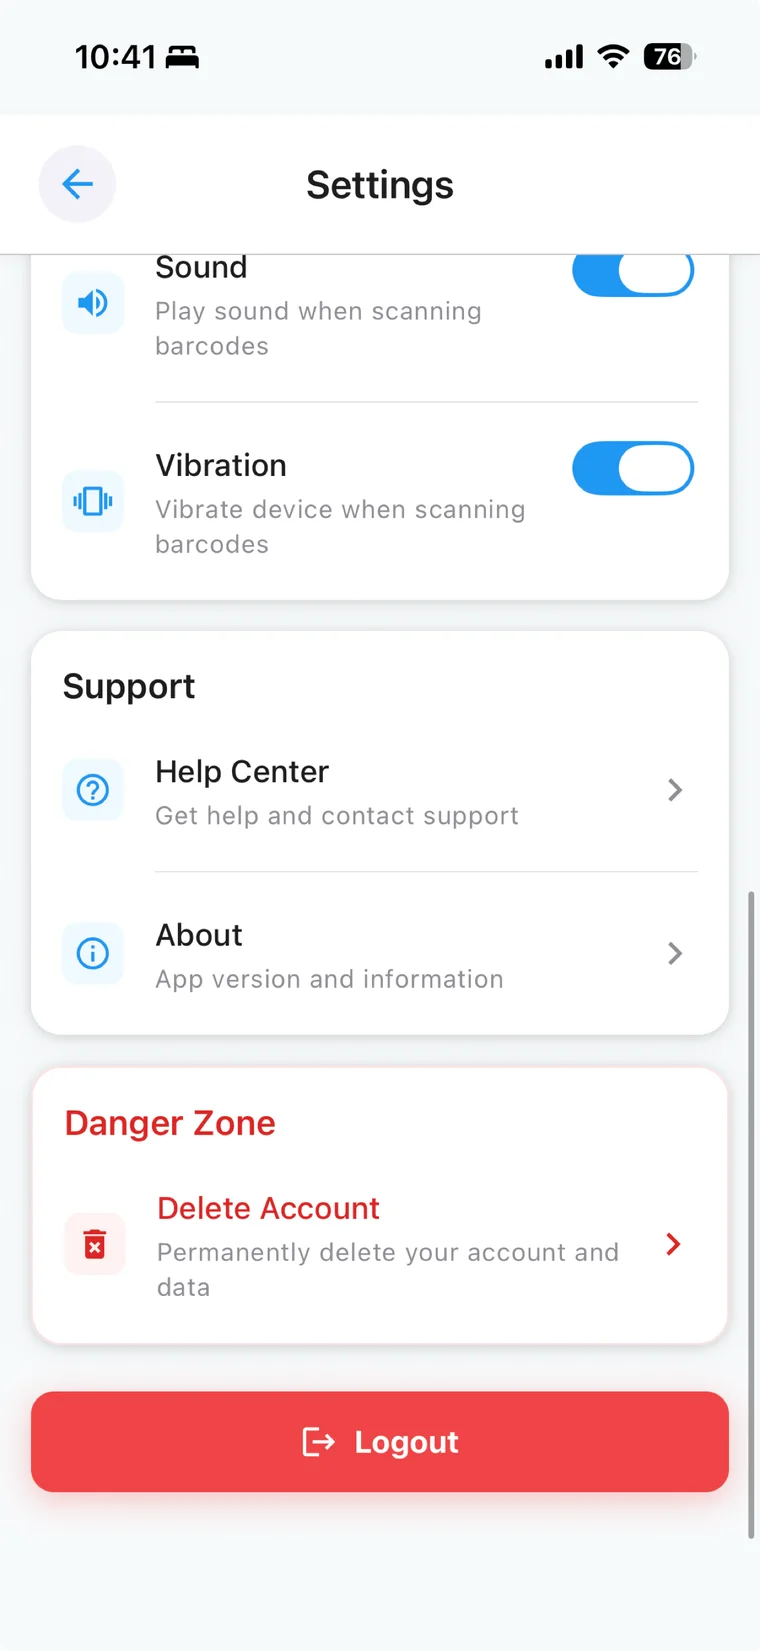
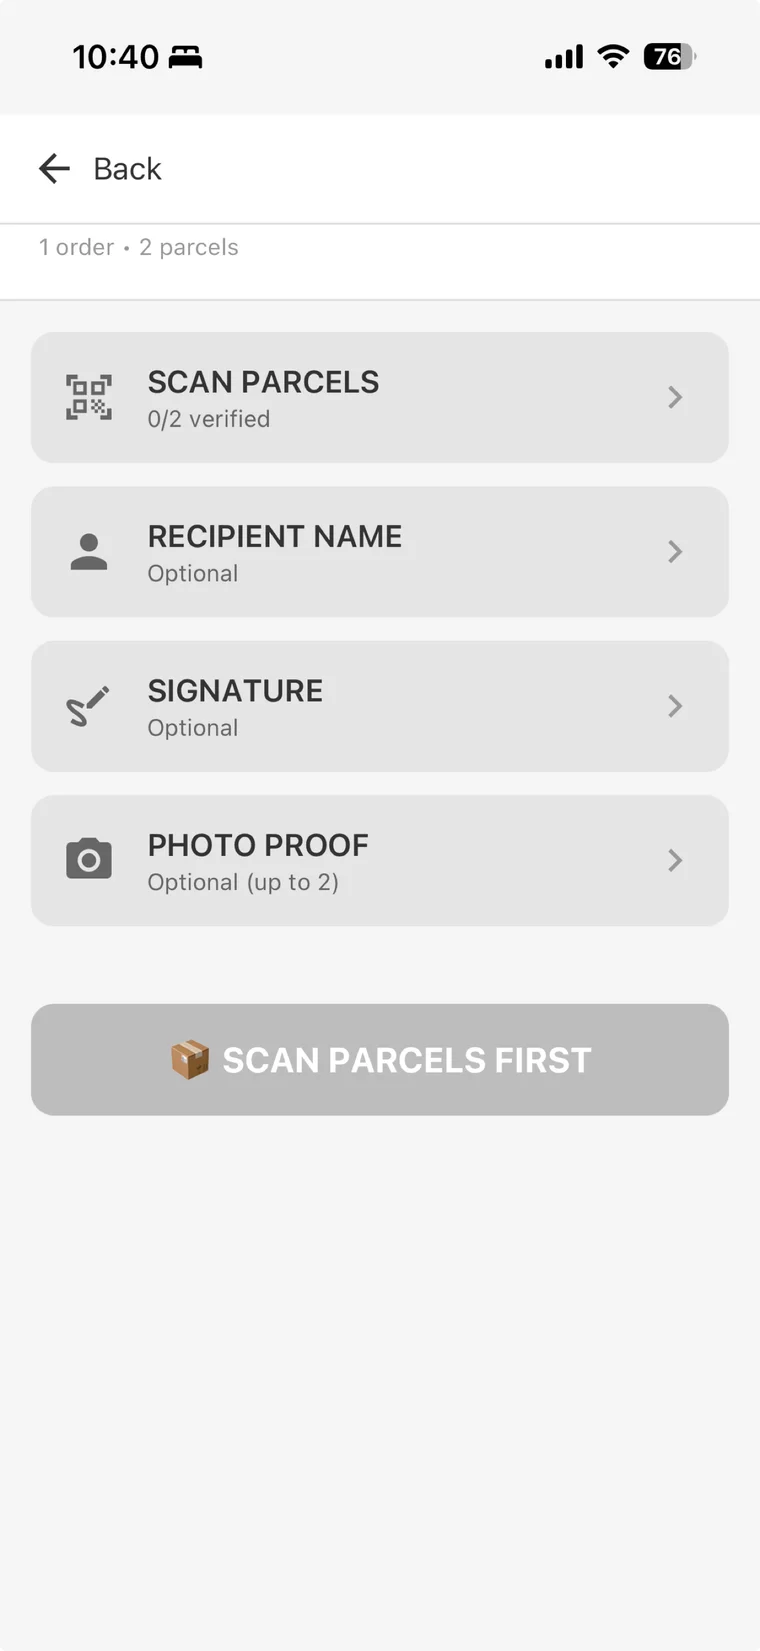
feat: Linux e infra, app do motorista na ordem da historia, projetos reordenados
LINUX ENTROU, e e a unica prova de servidor no portfolio. As imagens estavam
dentro dos documentos, nao em captura nova: maquina virtual, instalacao de
Ubuntu Server, pacote instalado, fuso corrigido DEPOIS de a primeira tentativa
falhar por maiuscula no nome do fuso, dois compartilhamentos escritos a mao no
arquivo de configuracao, o compartilhamento aberto de OUTRO sistema
operacional, e um servidor web respondendo no navegador.

A tela do fuso ficou de proposito com o erro E o acerto na mesma imagem. A
correcao sozinha nao mostra nada; as duas juntas mostram alguem lendo a
mensagem em vez de tentar de novo no escuro.

APP DO MOTORISTA EM ORDEM DE HISTORIA, e nao de nome de arquivo: entrar,
checar antes da van sair, navegar a rota, provar a entrega, ajustar. Cinco
telas. A de login teve o logotipo CORTADO em vez de borrado, porque borrao no
meio de uma tela de login fica pior do que nao mostrar. A lista de rotas
diarias ficou de fora: o nome da empresa esta no corpo dos cartoes, e borrar
ali destruiria justamente o conteudo da tela.

ORDEM DOS PROJETOS. Producao primeiro, sempre. Dentro da formacao a ordem e
por PROXIMIDADE COM O TRABALHO REAL e nao por nota: o data warehouse abre
porque prepara o card de BI, infra vem logo atras por ser a unica prova de
servidor, depois os dois apps com banco e autenticacao, e o front-end fecha,
porque front-end os sistemas de producao ja provam.

diff --git a/lib/content/galleries.ts b/lib/content/galleries.ts
@@ -7,12 +7,18 @@ import driver01 from "@/public/screenshots/g-driver-01.webp";
 import driver02 from "@/public/screenshots/g-driver-02.webp";
 import driver03 from "@/public/screenshots/g-driver-03.webp";
 import driver04 from "@/public/screenshots/g-driver-04.webp";
+import driver05 from "@/public/screenshots/g-driver-05.webp";
 import dwh01 from "@/public/screenshots/g-dwh-01.webp";
 import dwh02 from "@/public/screenshots/g-dwh-02.webp";
 import dwh03 from "@/public/screenshots/g-dwh-03.webp";
 import dwh04 from "@/public/screenshots/g-dwh-04.webp";
 import dwh05 from "@/public/screenshots/g-dwh-05.webp";
 import dwh06 from "@/public/screenshots/g-dwh-06.webp";
+import linux01 from "@/public/screenshots/g-linux-01.webp";
+import linux02 from "@/public/screenshots/g-linux-02.webp";
+import linux03 from "@/public/screenshots/g-linux-03.webp";
+import linux04 from "@/public/screenshots/g-linux-04.webp";
+import linux05 from "@/public/screenshots/g-linux-05.webp";
 import reel01 from "@/public/screenshots/g-reel-01.webp";
 import reel02 from "@/public/screenshots/g-reel-02.webp";
 import reel03 from "@/public/screenshots/g-reel-03.webp";
@@ -253,6 +259,24 @@ export const GALLERIES = {
     items: [
       {
         src: driver01,
+        page: t3("Signing in", "Entrando", "Iniciando sesión"),
+        note: t3(
+          "Driver ID, username and password, with biometric sign in once the device is trusted.",
+          "ID do motorista, usuário e senha, com entrada por biometria depois que o aparelho é confiável.",
+          "ID del conductor, usuario y contraseña, con acceso biométrico una vez que el dispositivo es de confianza.",
+        ),
+      },
+      {
+        src: driver02,
+        page: t3("Before the van leaves", "Antes da van sair", "Antes de que salga la furgoneta"),
+        note: t3(
+          "Three checks before anything is marked in transit, because a run that starts wrong stays wrong all day.",
+          "Três checagens antes de qualquer coisa ser marcada em trânsito, porque rota que começa errada continua errada o dia todo.",
+          "Tres verificaciones antes de marcar nada en tránsito, porque una ruta que empieza mal sigue mal todo el día.",
+        ),
+      },
+      {
+        src: driver03,
         page: t3("The route for the day", "A rota do dia", "La ruta del día"),
         note: t3(
           "Stops in optimised order, drawn on the map the driver navigates from.",
@@ -261,16 +285,7 @@ export const GALLERIES = {
         ),
       },
       {
-        src: driver02,
-        page: t3("Starting a run", "Começando a rota", "Iniciando la ruta"),
-        note: t3(
-          "Three checks before anything is marked in transit, because a run that starts wrong stays wrong.",
-          "Três checagens antes de qualquer coisa ser marcada em trânsito, porque rota que começa errada continua errada.",
-          "Tres verificaciones antes de marcar nada en tránsito, porque una ruta que empieza mal sigue mal.",
-        ),
-      },
-      {
-        src: driver03,
+        src: driver04,
         page: t3("Proof of delivery", "Comprovante de entrega", "Comprobante de entrega"),
         note: t3(
           "Scan the parcels first. Name, signature and photo are optional, the scan is not.",
@@ -278,7 +293,74 @@ export const GALLERIES = {
           "Escanear los bultos primero. Nombre, firma y foto son opcionales, el escaneo no.",
         ),
       },
-      { src: driver04, page: t3("Settings", "Ajustes", "Ajustes") },
+      { src: driver05, page: t3("Settings", "Ajustes", "Ajustes") },
+    ],
+  },
+  linux: {
+    altTemplate: t3(
+      "{page}, on an Ubuntu machine.",
+      "{page}, numa máquina Ubuntu.",
+      "{page}, en una máquina Ubuntu.",
+    ),
+    captionTemplate: t3("{page}.", "{page}.", "{page}."),
+    items: [
+      {
+        src: linux01,
+        page: t3("Installing packages", "Instalando pacotes", "Instalando paquetes"),
+        note: t3(
+          "A fresh server, updated and then given the file sharing service it is going to run.",
+          "Um servidor novo, atualizado e então recebendo o serviço de compartilhamento que vai rodar.",
+          "Un servidor nuevo, actualizado y luego con el servicio de compartición que va a ejecutar.",
+        ),
+      },
+      {
+        src: linux02,
+        page: t3("Fixing the time zone", "Consertando o fuso", "Arreglando la zona horaria"),
+        note: t3(
+          "The first attempt fails because the zone name is case sensitive. The screen keeps both the failure and the fix, which is the useful part.",
+          "A primeira tentativa falha porque o nome do fuso diferencia maiúscula. A tela guarda o erro e a correção, que é a parte útil.",
+          "El primer intento falla porque el nombre distingue mayúsculas. La pantalla guarda el error y la corrección, que es lo útil.",
+        ),
+      },
+      {
+        src: linux03,
+        page: t3(
+          "Configuring the shares",
+          "Configurando os compartilhamentos",
+          "Configurando los recursos compartidos",
+        ),
+        note: t3(
+          "Two shares defined by hand in the config file, each with its own path and write permission.",
+          "Dois compartilhamentos definidos à mão no arquivo de configuração, cada um com caminho e permissão de escrita próprios.",
+          "Dos recursos definidos a mano en el archivo de configuración, cada uno con su ruta y permiso de escritura.",
+        ),
+      },
+      {
+        src: linux04,
+        page: t3(
+          "Mounting it from another machine",
+          "Montando de outra máquina",
+          "Montándolo desde otra máquina",
+        ),
+        note: t3(
+          "The share opens in the file browser of a different operating system, which is the only proof that matters.",
+          "O compartilhamento abre no navegador de arquivos de outro sistema operacional, que é a única prova que importa.",
+          "El recurso abre en el explorador de archivos de otro sistema operativo, que es la única prueba que importa.",
+        ),
+      },
+      {
+        src: linux05,
+        page: t3(
+          "The web server answering",
+          "O servidor web respondendo",
+          "El servidor web respondiendo",
+        ),
+        note: t3(
+          "Installed, started, and reached from a browser. Two lines of terminal and one page that says it works.",
+          "Instalado, iniciado e alcançado por um navegador. Duas linhas de terminal e uma página dizendo que funciona.",
+          "Instalado, iniciado y alcanzado desde un navegador. Dos líneas de terminal y una página que dice que funciona.",
+        ),
+      },
     ],
   },
 } satisfies Record<string, GalleryGroup>;

diff --git a/lib/content/projects.ts b/lib/content/projects.ts
@@ -299,7 +299,7 @@ export const PROJECTS: readonly Project[] = [
   {
     slug: "ufo-archive",
     name: "Sightings Archive",
-    order: 6,
+    order: 7,
     domain: "academic",
     status: "study",
     period: { from: "2025-08", to: "2026-05" },
@@ -347,7 +347,7 @@ export const PROJECTS: readonly Project[] = [
   {
     slug: "trilogy-archive",
     name: "Original Trilogy Archive",
-    order: 7,
+    order: 8,
     domain: "academic",
     status: "study",
     period: { from: "2025-08", to: "2026-05" },
@@ -394,9 +394,57 @@ export const PROJECTS: readonly Project[] = [
     },
   },
   {
+    slug: "linux-server",
+    name: "Linux Server and File Sharing",
+    order: 6,
+    domain: "academic",
+    status: "study",
+    period: { from: "2025-08", to: "2025-08" },
+    stack: ["linux", "docker", "php"],
+    shots: gallery("linux"),
+    metrics: [
+      {
+        value: "2",
+        label: {
+          en: "services stood up and verified",
+          pt: "serviços no ar e verificados",
+          es: "servicios levantados y verificados",
+        },
+      },
+      {
+        value: "2",
+        label: {
+          en: "operating systems talking to each other",
+          pt: "sistemas operacionais conversando",
+          es: "sistemas operativos hablándose",
+        },
+      },
+    ],
+    copy: {
+      en: {
+        tagline: "A server built from an empty disk until another machine can use it",
+        summary:
+          "A virtual machine, an Ubuntu Server install, then the part that actually counts: packages installed, the time zone corrected after the first attempt failed on a case-sensitive name, two file shares written by hand into the config, and the share opened from a completely different operating system. Then a web server installed and reached from a browser. Nothing here is clicked through a wizard.",
+        role: "Diploma of Information Technology, Queensland.",
+      },
+      pt: {
+        tagline: "Um servidor montado de um disco vazio até outra máquina conseguir usar",
+        summary:
+          "Uma máquina virtual, uma instalação de Ubuntu Server, e então a parte que de fato conta: pacote instalado, fuso corrigido depois de a primeira tentativa falhar por causa de maiúscula no nome, dois compartilhamentos escritos à mão no arquivo de configuração, e o compartilhamento aberto de um sistema operacional completamente diferente. Depois um servidor web instalado e alcançado por um navegador. Nada aqui é assistente com botão de próximo.",
+        role: "Diploma of Information Technology, Queensland.",
+      },
+      es: {
+        tagline: "Un servidor armado desde un disco vacío hasta que otra máquina puede usarlo",
+        summary:
+          "Una máquina virtual, una instalación de Ubuntu Server, y luego lo que de verdad cuenta: paquetes instalados, la zona horaria corregida después de que el primer intento fallara por una mayúscula en el nombre, dos recursos compartidos escritos a mano en la configuración, y el recurso abierto desde un sistema operativo completamente distinto. Después un servidor web instalado y alcanzado desde un navegador. Nada aquí es un asistente con botón de siguiente.",
+        role: "Diploma of Information Technology, Queensland.",
+      },
+    },
+  },
+  {
     slug: "rest-api",
     name: "REST API and Documentation",
-    order: 8,
+    order: 9,
     domain: "academic",
     status: "study",
     period: { from: "2026-06", to: "2026-08" },
@@ -444,7 +492,7 @@ export const PROJECTS: readonly Project[] = [
   {
     slug: "nosql",
     name: "NoSQL and Database Hardening",
-    order: 9,
+    order: 10,
     domain: "academic",
     status: "study",
     period: { from: "2025-10", to: "2025-11" },
@@ -484,7 +532,7 @@ export const PROJECTS: readonly Project[] = [
   {
     slug: "data-cleaning",
     name: "Data Cleaning and Reporting in R",
-    order: 10,
+    order: 11,
     domain: "academic",
     status: "study",
     period: { from: "2025-11", to: "2025-12" },
@@ -524,7 +572,7 @@ export const PROJECTS: readonly Project[] = [
   {
     slug: "order-flow",
     name: "Multi-Step Order Flow",
-    order: 11,
+    order: 12,
     domain: "academic",
     status: "study",
     period: { from: "2025-08", to: "2026-05" },
@@ -572,7 +620,7 @@ export const PROJECTS: readonly Project[] = [
   {
     slug: "dive-school",
     name: "Dive School Site",
-    order: 12,
+    order: 13,
     domain: "academic",
     status: "study",
     period: { from: "2025-08", to: "2026-05" },
@@ -620,7 +668,7 @@ export const PROJECTS: readonly Project[] = [
   {
     slug: "film-reference",
     name: "Film Reference Site",
-    order: 13,
+    order: 14,
     domain: "academic",
     status: "study",
     period: { from: "2025-08", to: "2026-05" },
